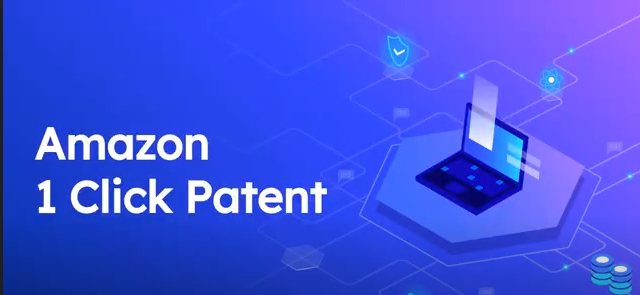
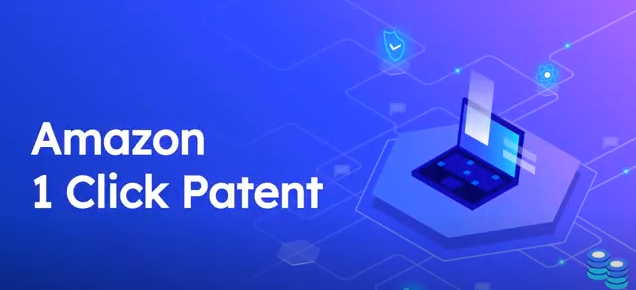
Made minor changes
Cropped image for Amazon one click patent, etc

diff --git a/index.html b/index.html
@@ -59,7 +59,7 @@
 
         <!-- Video -->
         <div class="project">
-            <img class="cs3744img" src="./images/cs3744png.png" alt = "CS project with React.js"/>
+            <img src="./images/cs3744png.png" alt = "CS project with React.js"/>
 
             <h2> Want to make fancy website using React.js? </h2>
 

diff --git a/css/style.css b/css/style.css
@@ -53,13 +53,6 @@ img {
   object-fit : cover;
 }
 
-.cs3744img {
-  object-position: 10% 50%;
-  width: 100%;
-  height : 50vh;
-  object-fit : cover;
-}
-
 .wrapper {
   max-width: 1150px;
   margin: auto;
